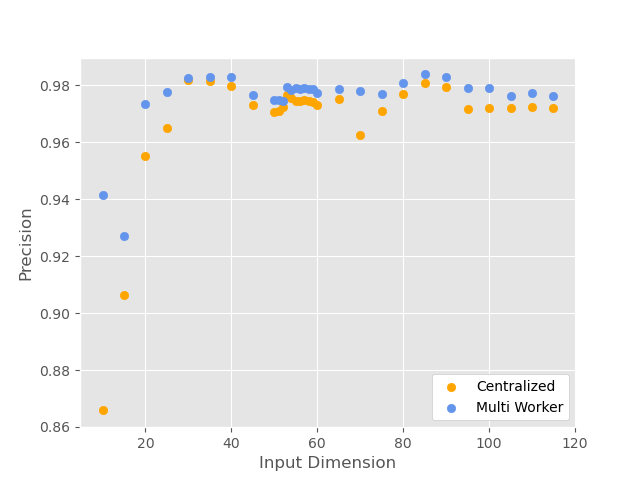
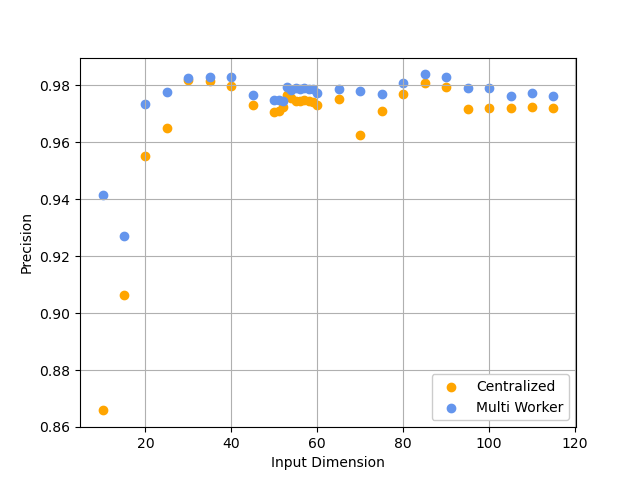
addressed the figures of figmaker, using default style for all matplotlib saves

diff --git a/anomaly-detection/MatpltlibGen/figMaker.py b/anomaly-detection/MatpltlibGen/figMaker.py
@@ -135,9 +135,10 @@ def f1_plt(plt):
 
 # %%
 def accuracy_plt_multi(plt):
-    plt.style.use("ggplot")
     title = "Accuracy"
     acc = plt
+    acc.style.use("default")
+    acc.grid()
     acc.title("")  # (f"{title}")# for different number of features")
     acc.xlabel("Input Dimensions")
     acc.ylabel(f"{title}")
@@ -158,7 +159,8 @@ def accuracy_plt_multi(plt):
 def precision_plt_multi(plt):
     title = "Precision"
     precision = plt
-    precision.style.use("ggplot")
+    precision.style.use("default")
+    precision.grid()
     precision.title("")  # (f"{title}")# for different number of features")
     precision.xlabel("Input Dimension")
     precision.ylabel(f"{title}")
@@ -178,7 +180,8 @@ def precision_plt_multi(plt):
 def recall_plt_multi(plt):
     title = "Recall"
     recall = plt
-    recall.style.use("ggplot")
+    recall.style.use("default")
+    recall.grid()
     recall.title("")  # (f"{title}")# for different number of features")
     recall.xlabel("Input Dimensions")
     recall.ylabel(f"{title}")
@@ -201,7 +204,8 @@ def recall_plt_multi(plt):
 def f1_plt_multi(plt):
     title = "F-Measure"
     f1 = plt
-    f1.style.use("ggplot")
+    f1.style.use("default")
+    f1.grid()
     f1.title("")  # f"{title}")# per number of features")
     f1.xlabel("Input Dimnesions")
     f1.ylabel(f"{title}")
@@ -261,8 +265,8 @@ def main(argv):
     matplotlib.use("pdf")
     # accuracy_plt_multi(plt)
     # f1_plt_multi(plt)
-    recall_plt_multi(plt)
-    # precision_plt_multi(plt)
+    # recall_plt_multi(plt)
+    precision_plt_multi(plt)
     # pandas_dataframe_print(plt)
 
     # f1_plt(plt)
